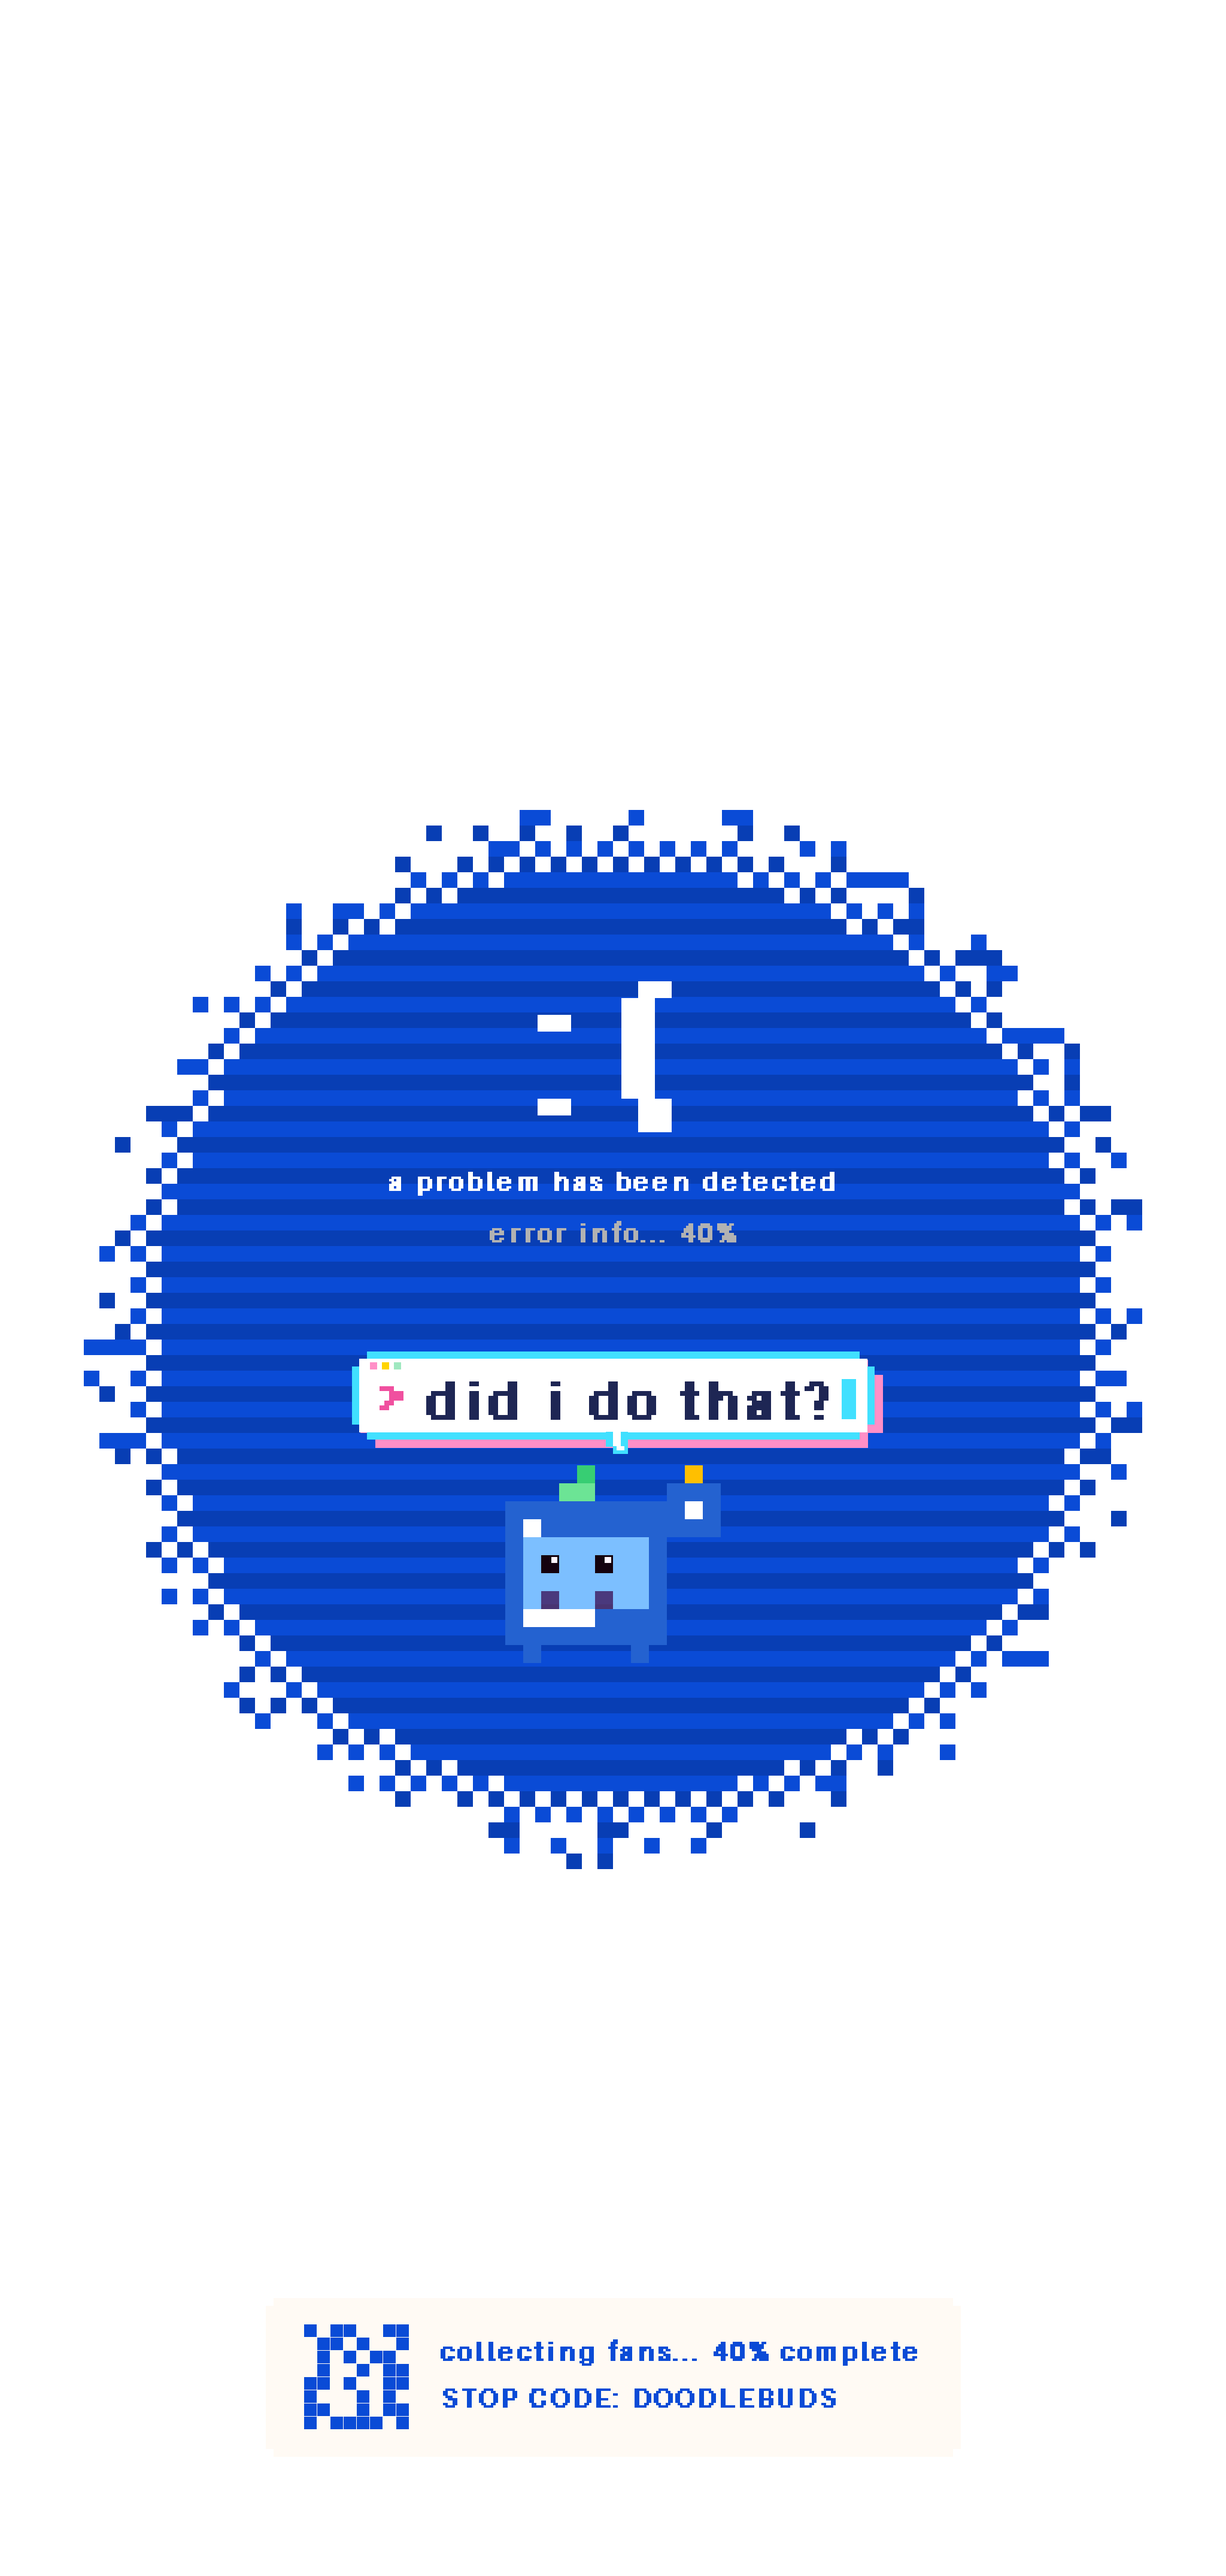
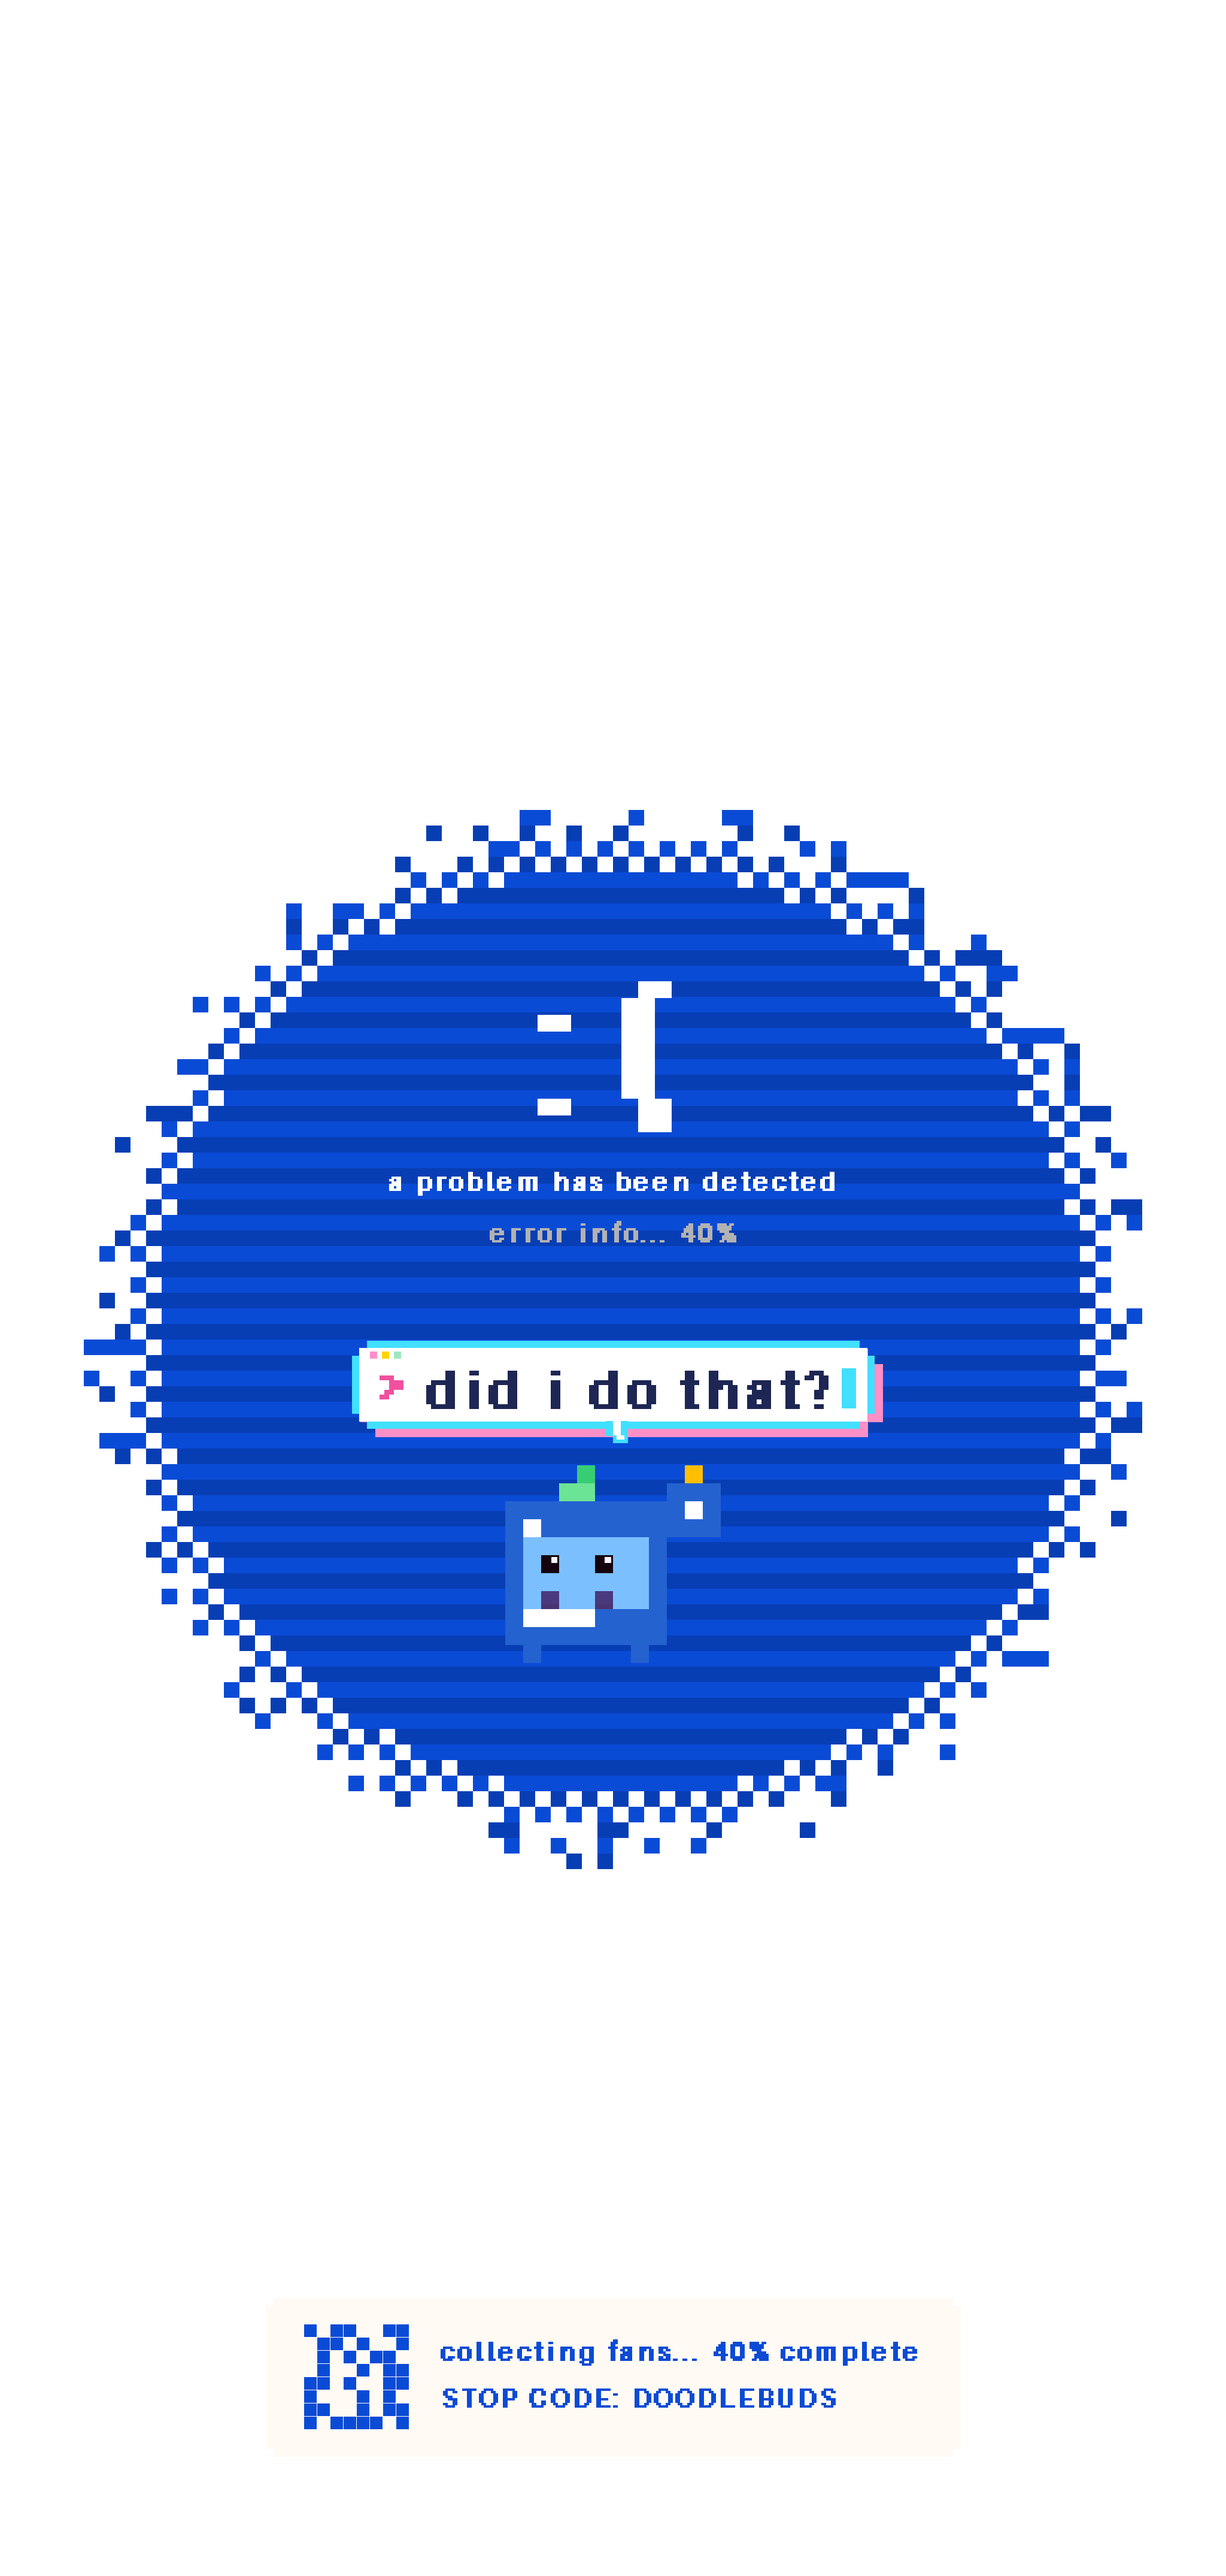
letterer-spec bubble air + the dot answers real clicks
bubbles rise to the Blambot numbers (body 0.2 body-heights above the
head, tail leaving 30px of clear air), and the hero dot climbs out of
negative z-index so actual mouse clicks reach it - programmatic click()
had been passing the test while every real knock hit the section
underneath. door greeting flag bumped to v2 so returning visitors get
one hello from the smaller door.

Changed region(s): [[0.2812, 0.4986, 0.7188, 0.5609]]

diff --git a/index.html b/index.html
@@ -58,7 +58,8 @@
   .hero-dot.d1 { width: 44vw; height: 44vw; right: -14vw; top: -16vw; }
   .hero-dot.d2 { width: 9vw; height: 9vw; right: 30vw; top: 30vh; background: var(--ink); }
   .hero-dot.d2 { cursor: pointer; }
-  .hero-word { pointer-events: none; }
+  .hero-word { pointer-events: none; position: relative; z-index: 3; }
+  .hero-dot.d2 { z-index: 2; }  /* above the section so real clicks land, below the letters */
   .hero-dot.d2 .doorfr { position: absolute; left: 38%; top: 30%; width: 24%; height: 40%; border: 0.16vw solid #fff; overflow: hidden; opacity: 0; transform: scale(0.6); transition: opacity 0.35s, transform 0.35s cubic-bezier(0.34, 1.56, 0.64, 1); }
   .hero-dot.d2.hasdoor .doorfr { opacity: 1; transform: scale(1); }
   .hero-dot.d2 .doorbud { position: absolute; bottom: -39%; left: -30%; width: 160%; image-rendering: pixelated; transform: translateX(115%); }
@@ -1108,8 +1109,8 @@ const DOSSIER = {"wheel": [{"n": "Pixel", "d": "the smallest unit of display", "
       dotBusy = true;
       seq([['hasdoor', 1, 0], ['peek', 1, 450], ['exc', 1, 750], ['peek', 0, 2050], ['exc', 0, 2050], ['hasdoor', 0, 2600]], 3200);
     };
-    if (!localStorage.getItem('db-door-greeted')) {
-      setTimeout(() => { doorGreet(); localStorage.setItem('db-door-greeted', '1'); }, 2400);
+    if (!localStorage.getItem('db-door-greeted2')) {
+      setTimeout(() => { doorGreet(); localStorage.setItem('db-door-greeted2', '1'); }, 2400);
     }
     const dotEyes = () => { if (dotBusy) return; d2.classList.add('eyes'); setTimeout(() => d2.classList.remove('eyes'), 1700); };
     const dotHop = () => { if (dotBusy) return; d2.classList.add('hop'); setTimeout(() => d2.classList.remove('hop'), 900); };
